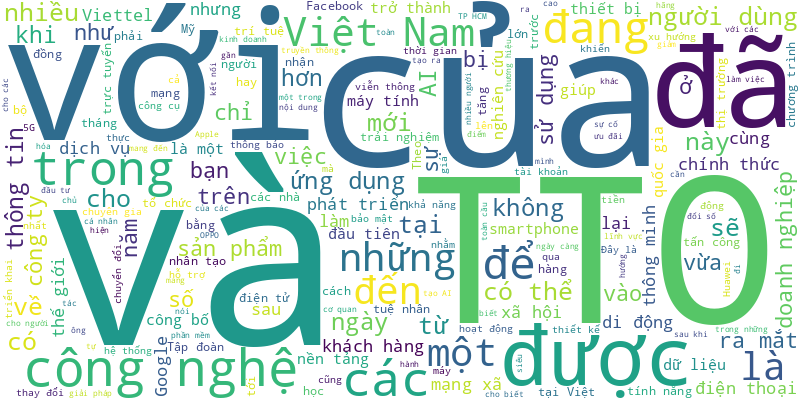
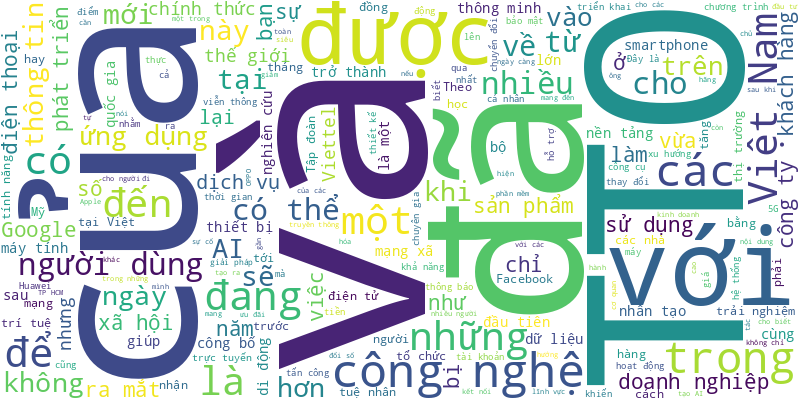
🍀 = 90%

diff --git a/README.md b/README.md
@@ -1,6 +1,17 @@
 # Tuoi Tre RSS 
 
 ## Giáo dục 
+- Đến nay đã có khoảng 40 trường đại học trên cả nước công bố điểm sàn (ngưỡng đảm bảo chất lượng đầu) vào theo phương thức xét điểm thi đánh giá năng lực, tư duy năm 2025.
+- Từ chiếc USB, tivi và bộ máy tính, lớp học nơi đảo xa trở nên sống động và gần hơn với đất liền.
+- Từ sau ngày 1-7, khi TP.HCM chính thức vận hành mô hình chính quyền 2 cấp, nếu học sinh chưa có chỗ học mầm non, lớp 1, lớp 6 thì phụ huynh sẽ tìm đến đâu để được bố trí chỗ học?
+- Chiều 13-6, Sở Giáo dục và Đào tạo tỉnh Vĩnh Phúc thông tin về việc đề thi môn toán vào lớp 10 Trường THPT chuyên Vĩnh Phúc vừa qua có sai sót và hướng xử lý.
+- Năm 2025, Trường đại học Khoa học sức khỏe (Đại học Quốc gia TP.HCM) tuyển 1.060 chỉ tiêu cho 5 ngành đào tạo đại học chính quy.
+- Nữ sinh huyện Đô Lương đạt thủ khoa kỳ thi tuyển sinh vào lớp 10 ở Nghệ An năm học 2025-2026 với 29,25 điểm.
+- Tại TH School, hạnh phúc có thể thấy trong từng khoảnh khắc nhỏ: một ánh mắt được thấu hiểu, một câu hỏi không bị đánh giá, một lời khích lệ đúng lúc, một không gian nơi các em được là chính mình.
+- Trong tập phát sóng tiếp theo của Khám phá trường học 2025, mời khán giả cùng chương trình đến thăm Trường đại học Xây dựng miền Trung.
+- Ngày 13-6, Trung ương Đoàn TNCS Hồ Chí Minh phối hợp cùng Tổ chức Giáo dục IIG Việt Nam tổ chức lễ tổng kết và trao giải cho sinh viên giành giải tại Cuộc thi Vô địch Thiết kế đồ họa thế giới - ACP World Championship 2025.
+- Trường đại học Khoa học, Đại học Thái Nguyên vừa công bố 5 chương trình đào tạo mới từ năm 2025, gồm khoa học tự nhiên tích hợp STEM, chăm sóc sắc đẹp từ dược liệu, quản lý kinh tế, luật kinh tế, quản trị truyền thông.
+- Kỳ thi vào lớp 10 được xem là một trong những kỳ thi áp lực cao, nhiều thí sinh phải ôn tập cường độ cao suốt nhiều tháng trời, có khi là nhiều năm học thêm không ngơi nghỉ.
 - TP Nha Trang, Khánh Hòa vừa điều chỉnh kế hoạch đầu tư công, bổ sung dự án và vốn đầu tư cho 20 trường học sửa chữa, xây mới nhà vệ sinh ngay trong hè này.
 - Kỷ niệm 30 năm thành lập (26-4-1995 - 26-4-2025), Trường đại học Công nghệ TP.HCM (HUTECH) tặng học bổng trị giá 25% học phí cho thí sinh đăng ký xét học bạ đáp ứng đủ điều kiện.
 - Ngoài lần đầu xét tổ hợp A00 (toán, lý, hóa), năm nay Trường đại học Y Hà Nội tăng chỉ tiêu xét tuyển thẳng cho mỗi ngành lên tới 40% (tăng 15% so với năm ngoái).
@@ -990,20 +1001,71 @@
 - Trường đại học Quốc tế Sài Gòn vừa ký kết Biên bản ghi nhớ và Biên bản thỏa thuận với Trường đại học Nevada, Reno (UNR), Mỹ.
 - Quyết định đóng cửa Bộ Giáo dục của Tổng thống Mỹ có thể khiến nhiều học sinh yếu thế gặp khó, trong khi tương lai của các khoản nợ sinh viên vẫn là dấu hỏi lớn.
 - Thí sinh xét học bạ hay điểm thi tốt nghiệp vào Trường đại học Văn hóa Hà Nội nếu có chứng chỉ IELTS 4.0 sẽ được cộng 3 điểm. Trường đại học Điện lực tăng hơn 2.800 chỉ tiêu, mở ngành mới liên quan đến bán dẫn, hạt nhân...
-- 28 học sinh và giáo viên Trường Marie Curie ở Bình Dương nhập viện, nhưng cơ quan chức năng nói không phải do ngộ độc thực phẩm, mà nghi do nắng nóng.
-- Tại lễ bế mạc cuộc thi khoa học kỹ thuật quốc gia 2025, Bộ Giáo dục và Đào tạo đã trao thưởng cho 120 dự án.
-- Báo Tuổi Trẻ và Trường cao đẳng Sài Gòn hợp tác trong nhiều hoạt động của hai đơn vị, trong đó có đào tạo sinh viên cao đẳng.
-- Hiện đã có giấy báo dự thi đánh giá năng lực Đại học Quốc gia TP.HCM đợt 1 năm 2025. Làm sao để nhận giấy báo dự thi? Thí sinh có được thay đổi địa điểm thi?
-- Ngày 20-3, ngày hội triển lãm và tuyển dụng của các doanh nghiệp cựu sinh viên HUTECH - HUTECH Alumni Job Fair 2025 đã diễn ra.
-- Có người kể là nhờ thông tư 29 mà gia đình họ được sum họp buổi tối vì con em họ không phải đi học thêm.
-- Ông Trump vừa ký sắc lệnh tạo điều kiện cho Bộ Giáo dục tự giải tán, nhưng cần có sự thông qua của Quốc hội thì bộ mới bị xóa bỏ hoàn toàn.
-- Giáo sư Nguyễn Văn Tuấn đối thoại cùng Tuổi Trẻ quanh nghị quyết 57, cơ chế thu hút, sử dụng người tài trong nước và quốc tế.
-- Năm 2025, Trường đại học Đồng Tháp xét tuyển nhiều ngành sư phạm không có môn chính.
-- Ngày 21-3, Bộ Giáo dục và Đào tạo chính thức công bố quy chế tuyển sinh đại học chính quy năm 2025 với nhiều điểm mới.
-- Trường đại học Quốc tế Sài Gòn tuyển sinh chương trình trao đổi sinh viên đại học 2+2 hợp tác cùng Trường đại học Ngoại ngữ Busan, Hàn Quốc.
 ![Edu](Edu.png)
 ## Thời Sự 
-- Dự án hệ thống tách nước phân lũ, phòng, chống ngập úng các xã phía Nam thị xã Kỳ Anh được triển khai hơn chục năm nay song đến nay vẫn đang dở dang, nguy cơ gây thất thoát lãng phí. Do nhiều vướng mắc dẫn đến chủ đầu tư xin chấm dứt dự án.
+- Sáng 14-6, Quốc hội biểu quyết thông qua Luật Thuế tiêu thụ đặc biệt sửa đổi, trong đó điều hòa có công suất trên 24.000 BTU đến 90.000 BTU, nước giải khát có đường thuộc diện chịu thuế tiêu thụ đặc biệt.
+- Cấp xã cũng được quyền cấp giấy chứng nhận quyền sử dụng đất (sổ đỏ), quyền sở hữu tài sản gắn liền với đất lần đầu
+- 9 xã trung tâm ở 9 huyện, thị, thành phố sẽ vận hành thử nghiệm HĐND, UBND và Trung tâm phục vụ hành chính công từ ngày 17-6 để đánh giá, rút kinh nghiệm trước khi vào hoạt động chính thức.
+- Ngay sau lễ khai mạc "Ngày không tiền mặt 2025", Phó thủ tướng Chính phủ Hồ Đức Phớc cùng nhiều đại biểu đã bước vào không gian trải nghiệm công nghệ, các giải pháp thanh toán hiện đại được trình diễn sống động từ giao thông đến mua sắm, tài chính...
+- Lễ hội Không tiền mặt 2025 không chỉ đơn thuần là lễ hội công nghệ, mà là ngày hội của sự thay đổi nơi mỗi người dân chạm tay vào tiện nghi, an toàn; nơi doanh nghiệp tìm thấy động lực chuyển đổi số, cơ quan quản lý có nhịp cầu kết nối hiệu quả.
+- Ngày 13-6, Quốc hội thảo luận lần hai ở hội trường về dự thảo nghị quyết của Quốc hội sửa đổi, bổ sung một số điều của Hiến pháp năm 2013.
+- Dự án xây dựng, mở rộng quốc lộ 50 (huyện Bình Chánh, TP.HCM) hiện đã hoàn thành khoảng 75% tổng khối lượng. Theo kế hoạch sẽ xong trong năm nay.
+- Hai xe tải lưu thông trên đường Tạo Lực (tỉnh Bình Dương) đã xảy ra va chạm, khiến 1 tài xế chết tại chỗ, 3 người bị thương nặng.
+- Tin tức đáng chú ý: Giao VTV chủ trì truyền hình trực tiếp diễu binh kỷ niệm 80 năm Quốc khánh; Từ 1-7 là cao điểm trấn áp tội phạm lừa người đi làm 'việc nhẹ lương cao'; Hơn 1 tháng, TP.HCM ghi nhận gần 800 ca sốt xuất huyết nặng nhập viện...
+- Hôm nay 14-6, thời tiết miền Trung nắng lại sau mưa bão. Miền Bắc mưa rào, miền Nam nhiều mây, chiều tối có mưa.
+- Trong ngày 16-6, hành khách đi 28 tuyến xe buýt có trợ giá được miễn phí vé khi thanh toán không tiền mặt và được hưởng nhiều ưu đãi hấp dẫn.
+- Bão số 1 (bão Wutip) di chuyển khá chậm, không đổ bộ đảo Hải Nam (Trung Quốc) mà đi vào phía đông vịnh Bắc Bộ nên cường độ liên tục tăng.
+- Thường trực Ban Bí thư Trần Cẩm Tú vừa ký ban hành kết luận 167 của Bộ Chính trị, Ban Bí thư về chủ trương thực hiện sắp xếp tổ chức bộ máy, đơn vị hành chính, đưa vào hoạt động đồng thời cấp tỉnh, cấp xã từ ngày 1-7.
+- Mảng xổ số truyền thống đóng góp lớn nhất vào nguồn thu của Công ty Đầu tư tài chính nhà nước TP.HCM (HFIC).
+- Tối 13-6, chương trình khai mạc Lễ hội du lịch hè Bình Định 2025 đã diễn ra tại quảng trường Nguyễn Tất Thành, TP Quy Nhơn.
+- Khánh Hòa đang làm thủ tục trình Chủ tịch nước tặng Huân chương Lao động hạng ba cho giáo sư, tiến sĩ Yoshida Lay Myint có nhiều nghiên cứu tại Việt Nam.
+- Phó thủ tướng Mai Văn Chính chỉ đạo Đài Truyền hình Việt Nam phối hợp với các cơ quan liên quan chuẩn bị tổ chức tốt truyền hình trực tiếp Lễ kỷ niệm, diễu binh, diễu hành; tập trung nâng cao hơn nữa chất lượng hình ảnh trong truyền hình trực tiếp.
+- Theo lãnh đạo Trung tâm Dự báo khí tượng thủy văn quốc gia, việc miền Trung chịu ảnh hưởng của bão số 1, ngập lụt lịch sử trong tháng 6 là hiếm gặp.
+- Người phát ngôn Bộ Ngoại giao Việt Nam bày tỏ sự lên án các hành động sử dụng vũ lực và vi phạm luật quốc tế gần đây tại Trung Đông.
+- Sau vài giờ tiếp nhận trình báo từ người dân bị giật vé số, Công an xã Tiến Lợi, TP Phan Thiết, Bình Thuận truy xét nhanh chóng và bắt giữ được người phụ nữ gây ra vụ việc.
+- Israel phát động một cuộc tấn công quân sự nhằm vào các cơ sở hạt nhân và hạ tầng quân sự trọng yếu của Iran, đã tạo sức ép lên thị trường tài chính.
+- Tính đến chiều 13-6, đã có 4 người tử vong và 4 người mất tích ở 3 tỉnh Quảng Bình, Quảng Trị, Huế do ảnh hưởng của mưa lũ dị thường.
+- Bộ Công an quyết định điều động đại tá Đinh Việt Dũng - giám đốc Công an tỉnh Ninh Bình - đến nhận công tác và giữ chức vụ giám đốc Công an tỉnh Nghệ An.
+- Sở Y tế TP.HCM, Bình Dương, Bà Rịa - Vũng Tàu họp bàn các giải pháp duy trì hoạt động khi hợp nhất. Ông Nguyễn Phước Lộc, phó bí thư Thành ủy - chủ tịch Ủy ban Mặt trận Tổ quốc Việt Nam TP.HCM, chủ trì hội thảo.
+- Tài xế phản ánh vạch kẻ đường tại lối ra Ma Lâm của cao tốc Vĩnh Hảo - Phan Thiết như 'thách đố', chủ đầu tư nói không có quyền điều chỉnh, vậy ai sửa?
+- UBND TP.HCM đã có công văn khẩn về sự cố cần cẩu sập đè ô tô tại công trình nút giao Mỹ Thủy.
+- Ông Nguyễn Văn Quyền (ngụ tỉnh Nam Định) cho biết gia đình ông đã tìm thấy con trai là B. (17 tuổi), sau hơn 5 tháng mất liên lạc.
+- Người đàn ông bám vào trụ điện gió hơn 15 giờ trên biển Gò Công đã được cứu sống.
+- Sở Y tế TP.HCM vừa ban hành xử phạt hàng chục cơ sở khám chữa bệnh, thẩm mỹ vì nhiều lỗi vi phạm khác nhau.
+- Sở Nông nghiệp và Môi trường nói chủ động phá đê quai đập Dạ Lam để chủ động thoát lũ. Chủ tịch xã Thái Thủy giải thích dùng từ vỡ đập là chưa đúng.
+- Đại tá Hồ Song Ân, giám đốc Công an tỉnh Đắk Nông, được bộ trưởng Bộ Công an điều động giữ chức vụ giám đốc Công an tỉnh Quảng Ngãi.
+- Do mưa lớn từ thượng nguồn, trong hai ngày qua một số tuyến đường trong phố đi bộ Hội An đã ngập sâu khiến việc tham quan, buôn bán đình trệ.
+- Lực lượng chức năng đang khẩn trương xác minh vụ một người đàn ông cầm đá, chặn đầu ô tô trên cao tốc Vân Phong - Nha Trang.
+- Ngay sau khi trận lốc xoáy quét qua làm hơn 30 nhà dân ở huyện Cẩm Xuyên bị tốc mái, hư hỏng, lực lượng bộ đội đã được điều động để kịp thời giúp người dân khắc phục hậu quả.
+- Giám đốc Trung tâm Phục vụ hành chính công Hà Nội Cù Ngọc Trang vừa ký ban hành kế hoạch triển khai thực hiện đảm bảo 100% thủ tục hành chính liên quan đến doanh nghiệp ưu tiên thực hiện trực tuyến, thông suốt, liền mạch, hiệu quả, đảm bảo minh bạch.
+- Do ảnh hưởng bão số 1, nước lũ sông Yên (Đà Nẵng) chảy xiết đã khiến hàng chục lồng bè nuôi cá của người dân bị cuốn trôi, mắc kẹt tại đập thủy lợi An Trạch (huyện Hòa Vang).
+- Một chiếc ghe chở 6 người bị lật khi đang băng qua dòng nước lũ ở TP Huế. May mắn cả 6 người được cứu.
+- Tại hướng dẫn mới của Ban Bí thư đã nêu rõ 6 trường hợp đảng viên được miễn, không hoặc chưa xem xét, xử lý kỷ luật.
+- Ông Lương Minh Phúc, giám đốc Ban Giao thông, cho biết sở dĩ có một gói thầu ở công trình nút giao An Phú chỉ tăng 1% trong 9 tháng là do số liệu bị nhầm lẫn.
+- Trận lũ bất thường giữa tháng 6 đã gây thiệt hại nghiêm trọng về tài sản tại Quảng Trị. Người dân vừa gieo cấy lúa 10 ngày trước, sắn chỉ còn 1 tháng thu hoạch bị ngâm nước mất trắng.
+- Tỉnh Hà Tĩnh giao các đơn vị liên quan đến dự án hệ thống tách nước phân lũ, phòng, chống ngập úng tổ chức kiểm điểm, làm rõ nguyên nhân, trách nhiệm của tổ chức, cá nhân liên quan đến các tồn tại, vướng mắc khiến dự án không hoàn thành đúng tiến độ.
+- Sở Y tế tỉnh Phú Yên vừa ra quyết định xử phạt 24 triệu đồng đối với nhà hàng Phố Đêm Vườn chi nhánh 3 (phường 7, TP Tuy Hòa) với 4 lỗi vi phạm.
+- Dự báo trong chiều tối nay bão số 1 (bão Wutip) có thể mạnh lên cấp 12 (118 - 133km/h), giật cấp 14. Vùng ven biển Quảng Ninh - Hải Phòng có thể có gió mạnh cấp 6-7, giật cấp 8-9.
+- Việc chỉ định chỉ áp dụng từ nay đến khi tiến hành bầu cử đại biểu Quốc hội khóa XVI, đại biểu HĐND các cấp nhiệm kỳ 2026 - 2031. Sau đó, việc bầu các chức danh của HĐND, UBND sẽ thực hiện bình thường.
+- Đã có thêm hai vợ chồng ở Quảng Bình mất tích khi đi bắt cá trên sông Dinh trong đợt mưa lũ dị thường. Trước đó hai chị em cũng tại tỉnh này đi soi ếch bị nước cuốn vẫn chưa tìm được.
+- Từ ngày 2-6 đến 15-7-2025, Bộ Tư pháp tổ chức cuộc thi Tìm hiểu về bộ, ngành tư pháp hướng tới kỷ niệm 80 năm Ngày Truyền thống ngành tư pháp (28-8-1945 - 28-8-2025).
+- Trước giờ khai màn “Ngày không tiền mặt 2025”, phố đi bộ Nguyễn Huệ (quận 1, TP.HCM) như bừng sáng trong không khí thi công hối hả.
+- Mưa lớn kéo dài do ảnh hưởng của bão số 1 đã gây vỡ đập thủy lợi Dạ Lam ở xã Thái Thủy, huyện Lệ Thủy, tỉnh Quảng Bình. Nước đang tràn về các xã phía hạ du huyện Lệ Thủy.
+- Bí thư Quận ủy quận 1 Dương Anh Đức chúc báo Tuổi Trẻ tiếp tục phát triển, giữ vững được vị trí vững chắc trong lòng bạn đọc, luôn là tờ báo được nhiều bạn đọc mong đợi và tin tưởng, gặt hái được nhiều thành công.
+- Đảng ủy UBND tỉnh Phú Yên kiến nghị Ban Thường vụ Tỉnh ủy cho phép thực hiện phương án bố trí, sắp xếp cán bộ công chức, viên chức làm việc tại cơ sở 2 sau khi hợp nhất tỉnh Phú Yên với tỉnh Đắk Lắk.
+- Mỗi huyện, thị xã, thành phố tại Long An sẽ chọn một đơn vị xã, phường trung tâm vận hành thử nghiệm để nghiên cứu, rút kinh nghiệm, kịp thời điều chỉnh hợp lý, bảo đảm thông suốt khi đi vào hoạt động chính thức.
+- Theo lãnh đạo UBND phường 12, thông tin bãi giữ xe tại số 816 Sư Vạn Hạnh (phường 12, quận 10, TP.HCM) lấy giá 200.000 đồng/ngày là không chính xác.
+- Bình Dương đã phê duyệt kết quả lựa chọn nhà đầu tư làm dự án đường vành đai 4 TP.HCM đoạn cầu Thủ Biên - sông Sài Gòn (giai đoạn 1).
+- Sau khi cảnh sát giao thông dừng ô tô của nhóm mua bán ma túy, nhiều trinh sát đã lập tức xuất hiện, bao vây xe và bắt gọn.
+- Hôm qua (12-6), với 461/465 đại biểu có mặt tán thành, Quốc hội đã thông qua nghị quyết lịch sử về sáp nhập đơn vị hành chính cấp tỉnh. Từ nay Việt Nam có bản đồ hành chính mới, được vẽ lại để đất nước phát triển hơn.
+- Kết nối nhiều khu vực quan trọng, hai dự án mở rộng đường Hoàng Hữu Nam và Lò Lu (TP Thủ Đức, TP.HCM) đến nay vẫn dang dở. Mỗi cơn mưa, ổ gà lại xuất hiện, đá dăm trồi lên mặt đường, người dân khổ trăm bề.
+- Thủ tướng Phạm Minh Chính vừa ký công điện số 87 ngày 12-6 về việc tiếp tục đẩy mạnh phân cấp, phân quyền; phân định thẩm quyền trong các ngành, lĩnh vực.
+- Ủy ban thường vụ hai tỉnh Long An và Tây Ninh đã thống nhất thời điểm hợp nhất các tổ chức, cơ quan, đơn vị cấp tỉnh mới đi vào hoạt động từ ngày 1-7-2025.
+- Theo nghị quyết được Quốc hội thông qua, sau sáp nhập với Bình Dương và Bà Rịa - Vũng Tàu, vai trò đầu tàu kinh tế của TP.HCM mới càng rõ nét. TP.HCM sẽ là một siêu đô thị (megacity) tầm vóc lớn.
+- Khi đến gần ngã tư Đồng Tâm (Tiền Giang) - nơi có chốt đèn tín hiệu giao thông và gặp nhiều xe cộ phía trước đang dừng đèn đỏ, tài xế đã lái xe khách đi vào phần đường dành cho xe 2 bánh.
+- Sau sáp nhập, cả nước có 21 tỉnh, thành giáp biển, TP.HCM sẽ có quy mô kinh tế lớn nhất và tỉnh Lâm Đồng có diện tích lớn nhất.
+- Dự thảo nghị quyết sửa đổi, bổ sung Hiến pháp năm 2013 giữ lại quy định quyền chất vấn của đại biểu HĐND với chánh án, viện trưởng như hiện hành.
+- Dự án hệ thống tách nước phân lũ, phòng, chống ngập úng các xã phía nam thị xã Kỳ Anh được triển khai hơn chục năm nay song đến nay vẫn đang dở dang, nguy cơ gây thất thoát, lãng phí. Do nhiều vướng mắc dẫn đến chủ đầu tư xin chấm dứt dự án.
 - Tuổi Trẻ tặng bạn đọc hai trang báo dung lượng lớn bản đồ hành chính Việt Nam mới và bản đồ 168 phường, xã của TP.HCM mới.
 - Đây là yêu cầu của UBND TP.HCM với phường, xã mới khi tiếp nhận thủ tục hành chính của người dân, doanh nghiệp, nhằm bảo đảm việc tiếp nhận và giải quyết thủ tục liên tục, thông suốt, kịp thời khi sắp xếp bộ máy.
 - Sự việc xảy ra lúc gần 23h đêm 12-6 tại nhà ga hành khách T2 sân bay Nội Bài, khi nữ nhân viên xe đẩy phát hiện bọc tiền 5 triệu won (gần 100 triệu đồng) của hành khách bỏ quên.
@@ -1941,70 +2003,10 @@
 - Trong lúc kiểm tra, ngăn chặn hành vi phá rừng, 1 phó giám đốc công ty lâm nghiệp bị nhóm người hành hung gây gãy xương sườn, tràn dịch màng phổi.
 - Cơ quan điều tra Công an tỉnh Kiên Giang đã khởi tố, bắt tạm giam Nguyễn Chí Nguyện chỉ vài ngày sau khi mãn hạn tù. Đây là bị can liên quan đến vụ án tranh chấp ngư trường và bảo kê mặt biển.
 - Dự án Luật Tương trợ tư pháp về dân sự nhằm khắc phục những bất cập trong thực tiễn, tăng cường hiệu quả hợp tác quốc tế và bảo đảm quyền, lợi ích hợp pháp của tổ chức, cá nhân trong bối cảnh hội nhập ngày càng sâu rộng.
-- Nhiều tuyến đường ở trung tâm TP Buôn Ma Thuột (Đắk Lắk) cứ mưa là ngập nặng, nước chảy xiết cuốn theo rác thải, bùn đất và cả nỗi lo âu của người dân phố núi.
-- Theo chuyên gia trùng tu di tích, ngai vàng triều Nguyễn bị bẻ gãy được làm từ gỗ gụ - một loại gỗ quý hiếm có độ bền cao.
-- Nghe tin báo khai thác vàng trái phép trong rừng Đak Sơmei, cơ quan chức năng tỉnh Gia Lai lập đoàn kiểm tra nhưng đến nơi hầm không, lán trống, chỉ còn các công cụ làm vàng bị "vàng tặc" bỏ lại.
-- Sau khi gửi 5 đứa con cho bà ngoại, chị Huỳnh Thị Ngọc Vân vội chạy tới bệnh viện thì ngã quỵ khi nghe tin chồng đã mất nghi do ngộ độc khí CO.
-- Chiều 26-5, tại Hà Nội, Đại tướng Phan Văn Giang, bộ trưởng Bộ Quốc phòng, đã tiếp ông Sébastien Lecornu, bộ trưởng Quân đội Cộng hòa Pháp, nhân dịp tháp tùng Tổng thống Pháp Emmanuel Macron thăm cấp nhà nước tới Việt Nam.
-- Viện Kinh tế tài nguyên và Môi trường kiến nghị thay đổi sổ đỏ từ sổ giấy lâu nay sang sổ đỏ điện tử.
-- Trưa 26-5, sau cuộc gặp tại trụ sở Trung ương Đảng, Tổng Bí thư Tô Lâm và Phu nhân đã cùng Tổng thống Pháp Macron và Phu nhân thăm Văn Miếu - Quốc Tử Giám.
-- Tập đoàn Sơn Hải tham gia dự thầu gói thầu cao tốc TP.HCM - Thủ Dầu Một - Chơn Thành, đoạn qua tỉnh Bình Phước và bỏ giá thấp nhất, nhưng đơn vị được chọn trúng thầu lại là một doanh nghiệp khác bỏ giá thầu cao nhất.
-- Tại sao ngai vàng triều Nguyễn - một biểu tượng quốc gia - lại không được bảo vệ đúng mức?
-- Bệnh viện Quân y 175 sẽ là bệnh viện đầu tiên của cả nước có 2 bãi đáp trực thăng, góp phần nâng cao năng lực cấp cứu, ứng cứu, phòng chống thảm họa, thiên tai, tình huống khẩn cấp...
-- Phát hiện nữ sinh nhảy cầu, giáo viên tiểu học ở Nam Định đã dũng cảm bơi ra giữa dòng nước chảy xiết cứu cô gái an toàn.
-- Bảo hiểm xã hội khu vực I (địa bàn Hà Nội) vừa thông báo lịch chi trả lương hưu, trợ cấp bảo hiểm xã hội tháng 6-2025.
-- Xã Khánh Tiến, huyện U Minh, tỉnh Cà Mau bị mất cân đối ngân sách hơn 2 tỉ đồng kéo dài nhiều năm nay, trong đó có nhiều khoản nợ quán nhậu, quán ăn.
-- Ngày 30-5 đến 1-6 (nhằm ngày 4 đến 6-5 âm lịch) sắp tới, lễ vía Bà - lễ hội lớn nhất và quan trọng nhất sẽ diễn ra tại núi Bà Đen (tỉnh Tây Ninh) với nhiều hoạt động được tổ chức như lễ tắm Bà, phiên chợ lá, đại lễ dâng đăng…
-- Một chiếc xe kéo theo rơ moóc dài bị hỏng giữa khúc cua trên đèo Hải Vân, trong khi phần đầu kéo đã đi khỏi hiện trường thì phần rơ moóc bị kẹt lại trên đèo.
-- Mâu thuẫn trong lúc ăn nhậu, Đoàn Công Kim Ngân dùng súng tự chế bắn vào mạn sườn đối phương gây thủng gan, phổi.
-- Kế hoạch được thực hiện từ ngày 26-5 đến hết 14-10. Cảnh sát sẽ tập trung xử lý các vi phạm là nguyên nhân trực tiếp dẫn đến ùn tắc và tai nạn giao thông.
-- Để phù hợp khi không còn ban chỉ huy quân sự cấp huyện, Bộ Quốc phòng phải sửa 128 loại văn bản. Trong đó sửa đổi, bổ sung 11 luật, 38 nghị định của Chính phủ, 6 quyết định của Thủ tướng và 73 thông tư của bộ trưởng.
-- Sáng 26-5, Quốc hội thảo luận ở hội trường về dự án Luật Ngân sách nhà nước (sửa đổi), với nhiều ý kiến đại biểu băn khoăn về tỉ lệ phân chia ngân sách giữa trung ương và địa phương.
-- Bộ Chính trị yêu cầu đưa vào hoạt động cấp xã mới từ ngày 1-7, phấn đấu hoàn thành trước ngày 15-7. Cấp tỉnh phấn đấu hoàn thành trước ngày 15-8.
-- Chiếc xe máy điện đang lưu thông trên đường Trịnh Đình Trọng (phường Hòa Thạnh, quận Tân Phú, TP.HCM) thì bị cháy trơ khung, trụ đèn tín hiệu giao thông gần đó cũng bị ảnh hưởng. Nguyên nhân vụ việc đang được lực lượng chức năng làm rõ.
-- Một vụ tai nạn thương tâm trên kênh xáng 30, xã Tây Yên, Kiên Giang đã làm một người đàn ông tử vong trên sông. Sau hơn 10 tiếng đồng hồ, lực lượng chức năng mới tìm thấy thi thể nạn nhân.
-- Cơn lũ ập đến lúc nửa đêm đã làm hàng chục héc ta lúa đang kỳ thu hoạch bị vùi lấp dưới bèo tây. Tiếc công sức nhiều tháng trời chăm sóc, người dân buộc phải trằn mình dưới mưa để cứu lúa, giảm thiểu thiệt hại.
-- Lúc 13h45, trao đổi với Tuổi Trẻ Online, ông Nguyễn Đức Tùng - giám đốc Cảng vụ Hàng hải Hà Tĩnh xác nhận đã cứu được toàn bộ thuyền viên trên chiếc tàu chở than Công Thành 07.
-- Mở rộng tìm kiếm ở khu vực thi công dự án điện gió, đội quy tập hài cốt liệt sĩ Đoàn 337 phát hiện 5 bộ hài cốt liệt sĩ, trong đó một hài cốt có di vật khắc tên "Phiết, hoặc Phiệt".
-- Sáng 26-5, lễ đón cấp nhà nước Tổng thống Pháp Emmanuel Macron đã diễn ra trọng thể tại Phủ Chủ tịch, dưới sự chủ trì của Chủ tịch nước Lương Cường.
-- Một trưởng phòng Sở Nông nghiệp và Môi trường tỉnh Đắk Lắk đột tử khi đang đi công tác tại Phú Yên để bàn về công tác sáp nhập.
-- Sự phức tạp, chồng chéo, xung đột của hệ thống quy định trong các luật về đầu tư, quy hoạch, đất đai, xây dựng, bảo vệ môi trường… đang khiến quá trình đưa vốn vào sản xuất, kinh doanh kéo dài, tốn kém và rủi ro.
-- Xe ben và xe đầu kéo container xảy ra va chạm khiến đầu cabin xe ben bị đè bẹp, một thùng container ngả vào cửa hàng mua bán ô tô cũ, đè bẹp một ô tô.
-- Công ty TNHH Phục vụ mặt đất Sài Gòn - Long Thành ngày 25-5 khởi công dự án kỹ thuật thương mại số 2 tại sân bay Long Thành, mở rộng dịch vụ sửa chữa và bảo dưỡng thiết bị hàng không.
-- Dự Luật Tương trợ tư pháp đã bổ sung quy định mới về việc xem xét yêu cầu liên quan đến hình phạt tử hình.
-- Một vụ cháy lớn vào rạng sáng khiến cháy bốn căn nhà dân liền kề khiến người kinh doanh ở Bắc Giang thiệt hại nặng nề.
-- Chi phí sửa chữa cầu sắt bị sập xuống sông do xe chở 12 cột bê tông quá tải ước tính trên 200 triệu đồng, do chủ xe bỏ tiền túi khắc phục.
-- Chiều 25-5, dòng người tiếp tục đổ về phía chân núi Dông Bồ (thôn Diên Trường, xã Phổ Khánh, thị xã Đức Phổ, Quảng Ngãi) để tiễn đưa nguyên Chủ tịch nước Trần Đức Lương - người con ưu tú của vùng đất anh hùng.
-- Sau ồn ào của Ngân 98, Bộ Y tế đề nghị tiếp tục rà soát, kiểm tra, lấy mẫu kiểm nghiệm các sản phẩm giảm cân của Trần Thị Bích Ngân (Ngân Collagen).
-- Hôm nay 26-5, vùng mưa to đến rất to dịch vào Nghệ An đến Quảng Bình. Nam Bộ nắng gián đoạn, trưa về tối mưa nhiều nơi.
-- Không lâu sau khi đặt chân đến Hà Nội tối 25-5, Tổng thống Pháp Emmanuel Macron và Phu nhân đã trải nghiệm không khí thủ đô Việt Nam về đêm.
-- Tối 25-5, chuyên cơ chở Tổng thống Pháp Emmanuel Macron và Phu nhân hạ cánh xuống sân bay Nội Bài, đánh dấu chuyến thăm 3 ngày của ông tới Việt Nam bắt đầu.
-- Tầng áp mái của chung cư C2 Xuân Đỉnh (quận Bắc Từ Liêm, Hà Nội) bốc cháy ngùn ngụt. Sự cố khiến nhiều cư dân hốt hoảng tháo chạy tối 25-5.
-- Liên quan vụ doanh nghiệp trúng đấu giá mỏ cát 370 tỉ đồng ở thị xã Điện Bàn, Công an tỉnh Quảng Nam cho hay đã khởi tố vụ án vi phạm các quy định về đấu giá.
-- Là địa bàn có nhiều người lao động nhập cư, tín hiệu tích cực tại Bình Dương khi thời gian gần đây hàng loạt doanh nghiệp tư nhân tham gia đầu tư nhà ở xã hội với quy mô lớn.
-- Thông tin được đưa ra tại cuộc gặp gỡ báo chí chung của Thủ tướng Phạm Minh Chính và Thủ tướng Malaysia Anwar Ibrahim sau hội đàm ngày 25-5.
-- Một người dân ở Bạc Liêu mua 11 tờ vé số của Công ty Xổ số kiến thiết An Giang rồi cho hai người bạn tổng cộng 5 tờ, mình giữ lại 6 tờ và tất cả 11 tờ này đều trúng đặc biệt.
-- Ngày 25-5, UBND quận Hoàn Kiếm (Hà Nội) cho biết quận sẽ thực hiện việc quây tôn, rào chắn quanh tòa nhà 'Hàm cá mập' để phục vụ cho công tác phá dỡ.
-- Thi thể bé gái 11 tuổi ở Đồng Nai bị nước cuốn trôi sau cơn mưa lớn đã được tìm thấy ở gần khu vực cầu An Hảo, cách hiện trường nhiều cây số.
-- Đợt mưa lũ diễn ra chiều hôm qua đến sáng nay (25-5) tại tỉnh Hà Tĩnh đã gây thiệt hại khá lớn về tài sản của người dân.
-- Theo Bộ luật Hình sự, người xâm hại đến bảo vật quốc gia (trong trường hợp ở Huế là ngai vàng triều Nguyễn) có thể bị xử phạt tù từ 2 đến 7 năm.
-- Thủ tướng Phạm Minh Chính trân trọng cảm ơn và cho rằng đây là giải thưởng dành cho nhân dân, đất nước Việt Nam mà ông là người thay mặt để đón nhận.
-- Sau bài viết 'Nhà ga T3 Tân Sơn Nhất lại dột trong mưa làm khách bối rối', nhà thầu nói 'không phải dột', hàng trăm bạn đọc đã có ý kiến phản hồi.
-- Lễ đón Thủ tướng Phạm Minh Chính và Phu nhân được tổ chức trang trọng tại quảng trường Putra ngay trước Phủ Thủ tướng ở trung tâm hành chính Putrajaya, dưới sự chủ trì của Thủ tướng Malaysia Anwar Ibrahim và Phu nhân.
-- Nhiều doanh nghiệp đề nghị kiểm soát chặt phân bón và nguyên liệu đầu vào, tránh nguy cơ tồn dư cadimi, vàng O ảnh hưởng đến xuất khẩu sầu riêng.
-- Bảo vật quốc gia - ngai vàng triều Nguyễn bị khách bẻ gãy; Nhà ga T3 sân bay Tân Sơn Nhất bị dột lần 2... được nhiều bạn đọc quan tâm, phản hồi tuần qua.
-- Do lưu lượng nước đổ về đập Hà quá mạnh đã làm vỡ một đoạn đập hồ chứa nước. Vụ việc gây ngập úng nhiều diện tích hoa màu của người dân vùng hạ lưu.
-- Tượng đài Lương Định Của đặt tại công viên 30-4 TP Sóc Trăng sau gần 5 năm khánh thành kinh phí 8,5 tỉ đồng sắp tới được di dời, để mở rộng không gian vui chơi, giải trí cho người dân.
-- Lễ an táng nguyên Chủ tịch nước Trần Đức Lương được tổ chức tại nghĩa trang quê nhà, xã Phổ Khánh, thị xã Đức Phổ, tỉnh Quảng Ngãi.
-- Dự án cầu đường Bình Tiên được TP.HCM thúc đẩy sau hơn 10 năm đình trệ, dự kiến khởi công quý 1-2026, hoàn thành trong năm 2027.
-- Công an TP Huế đã quyết định tạm giữ hình sự Hồ Văn Phương Tâm để điều tra hành vi xâm hại bảo vật quốc gia ngai vàng triều Nguyễn.
-- Người dân xã Cẩm Duệ (Hà Tĩnh) đang chìm trong giấc ngủ thì bất ngờ nghe tiếng nước lũ tràn về ào ào như thác đổ. Lũ đã cuốn trôi, làm hư hại rất nhiều thóc lúa dân mới thu hoạch.
-- Trong 2 năm đầu sau khi sáp nhập hai tỉnh Đồng Tháp và Tiền Giang, cán bộ, công chức, viên chức từ Đồng Tháp về công tác tại trung tâm hành chính cấp tỉnh mới (tại TP Mỹ Tho, Tiền Giang) sẽ được hỗ trợ tiền đi lại, tiền lưu trú và tiền sinh hoạt.
-- Sau vụ ngai vàng triều Nguyễn bị bẻ gãy, nhiều bạn đọc đã bày tỏ sự tiếc nuối, phẫn nộ và đặt câu hỏi về công tác bảo vệ di sản tại Huế.
-- Cuối tuần, thị trường vàng thế giới không giao dịch nhưng giá vàng trong nước lại biến động mạnh sau yêu cầu của Thủ tướng.
-- Trưa 25-5, tại khu vực huyện Kon Plông (tỉnh Kon Tum) xảy ra một trận động đất mạnh 4,2 độ (độ lớn M). Viện Các khoa học Trái đất vẫn đang tiếp tục theo dõi trận động đất này.
 ![New](News.png)
 ## Nhịp sống số 
+- Tính năng nhớ mật khẩu trên trình duyệt và ứng dụng giúp người dùng tiết kiệm thời gian mỗi ngày. Nhưng nếu các nền tảng này gặp sự cố, dữ liệu cá nhân có còn an toàn?
+- 5G Advanced (5.5G) không chỉ nâng cấp tốc độ và độ trễ của 5G, mà còn mở ra khả năng kết nối hàng trăm tỉ thiết bị, tích hợp AI, phủ sóng ngoài không gian và chuẩn bị hạ tầng cho kỷ nguyên 6G đang đến gần.
 - Nhiều người vừa kiểm tra email, vừa nhắn tin, vừa nghe họp Zoom và nghĩ mình đang tận dụng thời gian hiệu quả bằng đa nhiệm kỹ thuật số.
 - Tính năng 'Không làm phiền' sinh ra để giữ đầu óc tập trung, nhưng dần trở thành chiếc áo khoác tinh tế cho những lúc ta không đủ sức phản hồi hay đối diện với ai đó. Rốt cuộc, ta đang tắt thông báo, hay bật chế độ phòng thủ cho chính mình?
 - Công bố từ nền tảng đo tốc độ i-Speed cho thấy tốc độ mạng di động của Đà Nẵng trong tháng 5 bất ngờ giảm mạnh, chỉ bằng 50% so với tháng 4.
@@ -3003,6 +3005,4 @@
 - TTO - Facebook vừa gửi thông báo xin lỗi tới 800.000 người dùng về sự cố kỹ thuật khiến những tài khoản đã bị người dùng chặn lại bỗng dưng được “mở khóa”.
 - TTO - Tanita ES-100 có hình dạng như dạng máy nhắn tin, sử dụng công nghệ phân tích và các thuật toán tùy chỉnh có thể phát hiện mùi mồ hôi, mùi người già, mùi mệt mỏi và thậm chí cả mùi các loại nước hoa.
 - TTO - Các phần mềm nhận diện khuôn mặt hiện nay vẫn đang gặp rắc rối với màu da tối, và hứng chịu nhiều tranh cãi xung quanh.
-- TTO - Tại sự kiện ra mắt ViettelPay, người dân Thủ đô đã có cơ hội trải nghiệm Infinity Room - Không gian vô cực lần đầu tiên có mặt tại Việt Nam.
-- TTO - "Hệ thống phân tích và chia sẻ nguy cơ tấn công mạng Việt Nam" vừa được Bộ Thông tin và Truyền thông chính thức ra mắt.
 ![life](Life.png)
